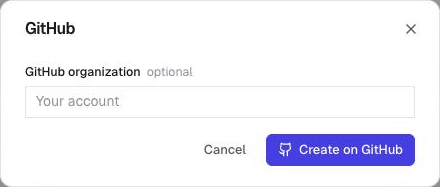
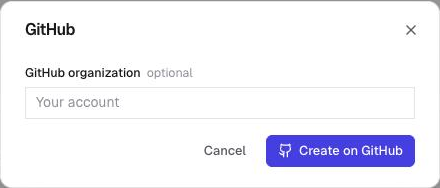
Point the how-to pages at the Services page and the agents' Set up buttons
(cherry picked from commit 8b7abf229760c083ade74eaeb19edeb9be4909b0)

diff --git a/docs/howto/amp.md b/docs/howto/amp.md
@@ -45,8 +45,8 @@ Then paste the token in one of these places:
 
 - **The keys page** your agent sends you (`https://login.<domain>/keys/…`),
   next to any other keys it needs. Amp stays on and its provider starts.
-- **Extensions** in the web app: **Add key** on Amp's row (or **Add** on its
-  tile when the setup did not choose Amp), paste the provider token and choose
+- **Extensions** in the web app: **Add key** on Amp's row (**Set up** when
+  the setup did not choose Amp), paste the provider token and choose
   **Test and save**. Saving turns Amp on; **Disconnect** in its row's menu
   turns it off.
 

diff --git a/docs/reference.md b/docs/reference.md
@@ -292,7 +292,7 @@ key is refused when it is installed.
 connection saved on this server. A managed server's connection has the
 server's name (`dev-pg` from `sbx-admin server up dev-pg`). `sbx catalog
 show PACKAGE` lists the saved connections a slot can take (to admins), as do
-`sbx-admin catalog connections` and the web app's **Extensions** page. With
+`sbx-admin catalog connections` and the web app's **Services** page. With
 one saved connection of the slot's kind, `connections:` can be left out. A
 name the server doesn't have stops the launch, and the error names the ones it
 has.

diff --git a/docs/howto/github.md b/docs/howto/github.md
@@ -8,7 +8,7 @@ no key to copy. GitHub's pages may differ a little from the labels below.
 ## Create the App
 
 1. Sign in to the sbx web app as an admin, open **Extensions**, and click
-   **Add** on **GitHub** under **Add**.
+   **Set up** on the **GitHub** row.
 2. Enter the GitHub organization that owns the repositories, or leave it
    empty for your own account. Creating an App in an organization needs its
    owner's rights there.
